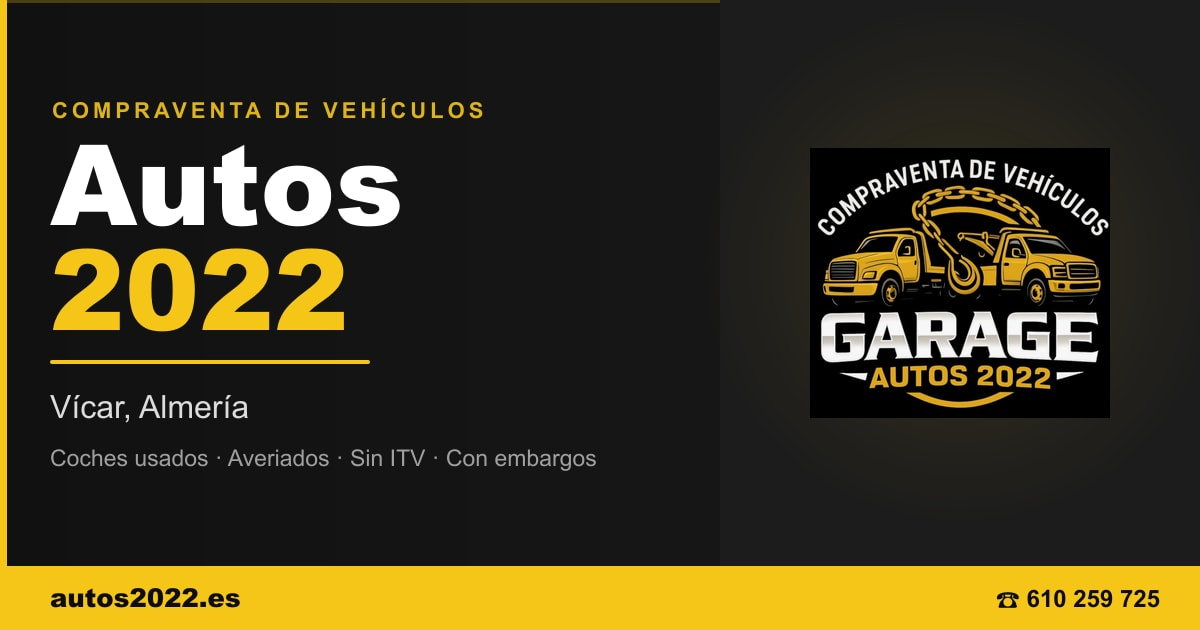
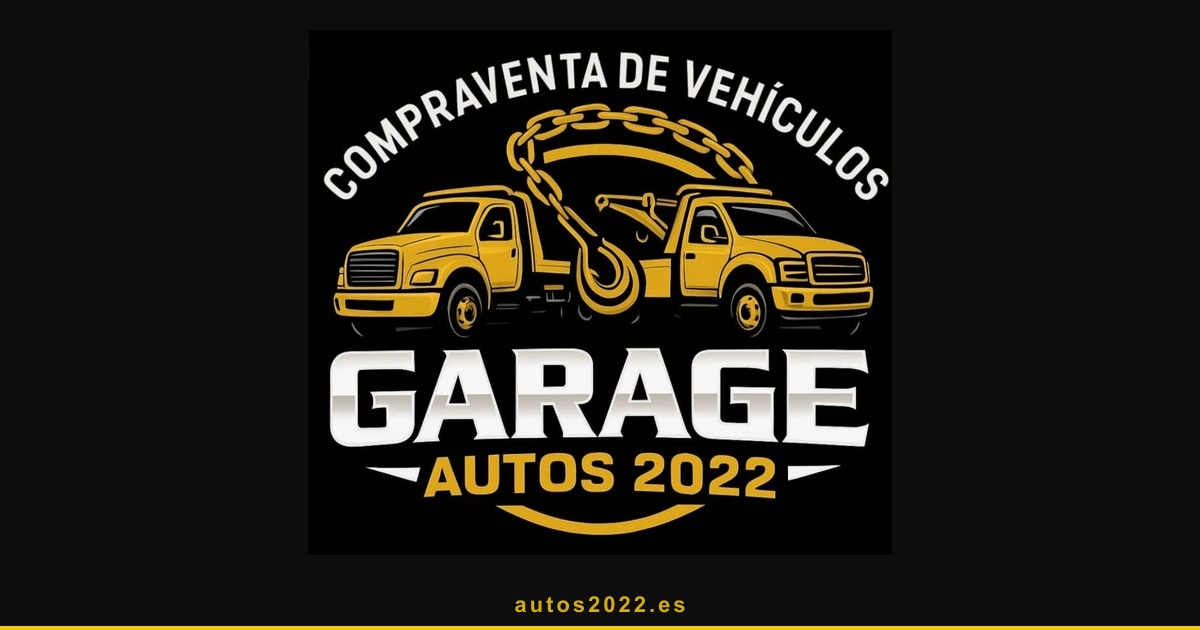
.

diff --git a/scripts/generate-og-image.js b/scripts/generate-og-image.js
@@ -1,157 +1,79 @@
 #!/usr/bin/env node
 /**
- * Genera public/og-image.jpg (1200x630) usando sharp.
+ * Genera public/og-image.jpg (1200x630).
+ * Diseño: logo grande centrado sobre fondo negro + "autos2022.es" abajo.
  * Ejecutar: node scripts/generate-og-image.js
  */
 
 const sharp = require('sharp');
 const path = require('path');
 
-const OUT = path.join(__dirname, '../public/og-image.jpg');
+const OUT  = path.join(__dirname, '../public/og-image.jpg');
 const LOGO = path.join(__dirname, '../public/logo.jpeg');
 
 const W = 1200;
 const H = 630;
 
-// ── Colores de marca ──────────────────────────────────────────────────────────
-const BG       = '#0D0D0D';
-const YELLOW   = '#F5C518';
-const WHITE    = '#FFFFFF';
-const GRAY     = '#A0A0A0';
-const GRAY_DIM = '#1C1C1C';
-const BOTTOM_H = 64;
+// Padding y área disponible
+const PAD_TOP     = 30;
+const PAD_SIDE    = 40;
+const PAD_BOTTOM  = 75; // espacio para el texto URL
 
-// ── SVG base (fondo + texto) ───────────────────────────────────────────────────
-const svg = `
-<svg width="${W}" height="${H}" viewBox="0 0 ${W} ${H}" xmlns="http://www.w3.org/2000/svg">
-  <defs>
-    <linearGradient id="bgGrad" x1="0" y1="0" x2="1" y2="0">
-      <stop offset="0%"   stop-color="#111111"/>
-      <stop offset="100%" stop-color="#1A1A1A"/>
-    </linearGradient>
-    <!-- Círculo difuso detrás del logo -->
-    <radialGradient id="glow" cx="50%" cy="50%" r="50%">
-      <stop offset="0%"   stop-color="#F5C518" stop-opacity="0.12"/>
-      <stop offset="100%" stop-color="#F5C518" stop-opacity="0"/>
-    </radialGradient>
-  </defs>
-
-  <!-- Fondo principal -->
-  <rect width="${W}" height="${H}" fill="url(#bgGrad)"/>
-
-  <!-- Franja izquierda amarilla -->
-  <rect x="0" y="0" width="7" height="${H - BOTTOM_H}" fill="${YELLOW}"/>
-
-  <!-- Franja superior decorativa fina -->
-  <rect x="7" y="0" width="${W - 7}" height="3" fill="${YELLOW}" opacity="0.25"/>
-
-  <!-- Fondo sección derecha (área logo) -->
-  <rect x="720" y="0" width="${W - 720}" height="${H - BOTTOM_H}" fill="${GRAY_DIM}"/>
-
-  <!-- Glowing circle behind logo -->
-  <circle cx="960" cy="265" r="260" fill="url(#glow)"/>
-
-  <!-- ── Texto izquierdo ───────────────────────────────────────────────────── -->
-
-  <!-- Eyebrow: categoría -->
-  <text x="52" y="118"
-        font-family="Arial, Helvetica, sans-serif"
-        font-size="22" font-weight="600" letter-spacing="4"
-        fill="${YELLOW}" opacity="0.9">
-    COMPRAVENTA DE VEHÍCULOS
-  </text>
-
-  <!-- Título principal: Autos -->
-  <text x="50" y="225"
-        font-family="Arial Black, Arial, Helvetica, sans-serif"
-        font-size="112" font-weight="900"
-        fill="${WHITE}">
-    Autos
-  </text>
-
-  <!-- Título principal: 2022 (en amarillo) -->
-  <text x="50" y="330"
-        font-family="Arial Black, Arial, Helvetica, sans-serif"
-        font-size="112" font-weight="900"
-        fill="${YELLOW}">
-    2022
-  </text>
-
-  <!-- Línea separadora -->
-  <rect x="50" y="360" width="320" height="4" fill="${YELLOW}" rx="2"/>
-
-  <!-- Subtítulo localización -->
-  <text x="50" y="418"
-        font-family="Arial, Helvetica, sans-serif"
-        font-size="32" font-weight="400"
-        fill="${WHITE}" opacity="0.85">
-    Vícar, Almería
-  </text>
-
-  <!-- Descriptor secundario -->
-  <text x="50" y="466"
-        font-family="Arial, Helvetica, sans-serif"
-        font-size="23" font-weight="400"
-        fill="${GRAY}">
-    Coches usados · Averiados · Sin ITV · Con embargos
-  </text>
-
-  <!-- ── Barra inferior ─────────────────────────────────────────────────────── -->
-  <rect x="0" y="${H - BOTTOM_H}" width="${W}" height="${BOTTOM_H}" fill="${YELLOW}"/>
-
-  <!-- URL -->
-  <text x="50" y="${H - BOTTOM_H + 41}"
-        font-family="Arial Black, Arial, sans-serif"
-        font-size="26" font-weight="900"
-        fill="${BG}">
-    autos2022.es
-  </text>
-
-  <!-- Teléfono derecha -->
-  <text x="${W - 40}" y="${H - BOTTOM_H + 41}"
-        font-family="Arial, Helvetica, sans-serif"
-        font-size="24" font-weight="700"
-        fill="${BG}" text-anchor="end">
-    ☎  610 259 725
-  </text>
-</svg>
-`;
+const availW = W - PAD_SIDE * 2;   // 1120
+const availH = H - PAD_TOP - PAD_BOTTOM; // 525
 
 async function generate() {
-  try {
-    // 1. Render SVG base → buffer PNG
-    const base = await sharp(Buffer.from(svg)).png().toBuffer();
+  // 1. Obtener dimensiones reales del logo
+  const meta = await sharp(LOGO).metadata();
+  const logoW = meta.width;
+  const logoH = meta.height;
 
-    // 2. Escalar logo (988×888) → ajustar al área derecha: aprox 300px de ancho
-    const LOGO_W = 300;
-    const LOGO_H = Math.round(300 * (888 / 988)); // ~270
-    const logoResized = await sharp(LOGO)
-      .resize(LOGO_W, LOGO_H, { fit: 'cover' })
-      .png()
-      .toBuffer();
+  // 2. Escalar logo para que quepa en el área disponible (fit: inside)
+  const scale  = Math.min(availW / logoW, availH / logoH);
+  const resW   = Math.round(logoW * scale);
+  const resH   = Math.round(logoH * scale);
 
-    // 3. Posición del logo: centrado en área derecha (720–1200) y vertical (0–566)
-    const logoX = Math.round((720 + W) / 2 - LOGO_W / 2); // ~810
-    const logoY = Math.round((H - BOTTOM_H) / 2 - LOGO_H / 2); // ~148
+  const logoResized = await sharp(LOGO)
+    .resize(resW, resH, { fit: 'inside', kernel: 'lanczos3' })
+    .jpeg({ quality: 95 })
+    .toBuffer();
 
-    // 4. Composite logo sobre base
-    const result = await sharp(base)
-      .composite([
-        {
-          input: logoResized,
-          left: logoX,
-          top: logoY,
-        },
-      ])
-      .jpeg({ quality: 90, mozjpeg: true })
-      .toFile(OUT);
+  // 3. Centrar logo: margen izquierdo y superior
+  const logoX = Math.round((W - resW) / 2);
+  const logoY = PAD_TOP + Math.round((availH - resH) / 2);
 
-    console.log(`\n✅ Imagen OG generada: ${OUT}`);
-    console.log(`   Tamaño: ${result.width}×${result.height} px · ${(result.size / 1024).toFixed(1)} KB\n`);
-  } catch (err) {
-    console.error('Error generando og-image:', err.message);
-    process.exit(1);
-  }
+  // 4. SVG de fondo + texto URL (se composita después del logo)
+  const textSvg = `
+    <svg width="${W}" height="${H}" xmlns="http://www.w3.org/2000/svg">
+      <!-- Fondo negro limpio -->
+      <rect width="${W}" height="${H}" fill="#0D0D0D"/>
+      <!-- Línea amarilla inferior -->
+      <rect x="0" y="${H - 4}" width="${W}" height="4" fill="#F5C518"/>
+      <!-- URL centrada -->
+      <text
+        x="${W / 2}" y="${H - 18}"
+        text-anchor="middle"
+        font-family="Arial, Helvetica, sans-serif"
+        font-size="22"
+        font-weight="700"
+        letter-spacing="3"
+        fill="#F5C518"
+        opacity="0.85"
+      >autos2022.es</text>
+    </svg>`;
+
+  const bgBuffer = await sharp(Buffer.from(textSvg)).png().toBuffer();
+
+  // 5. Compositar: fondo → logo centrado
+  await sharp(bgBuffer)
+    .composite([{ input: logoResized, left: logoX, top: logoY }])
+    .jpeg({ quality: 92, mozjpeg: true })
+    .toFile(OUT);
+
+  const result = await sharp(OUT).metadata();
+  console.log(`\n✅  ${OUT}`);
+  console.log(`    ${result.width}×${result.height} px`);
+  console.log(`    Logo renderizado: ${resW}×${resH} px (posición ${logoX},${logoY})\n`);
 }
 
-generate();
+generate().catch(err => { console.error(err.message); process.exit(1); });
